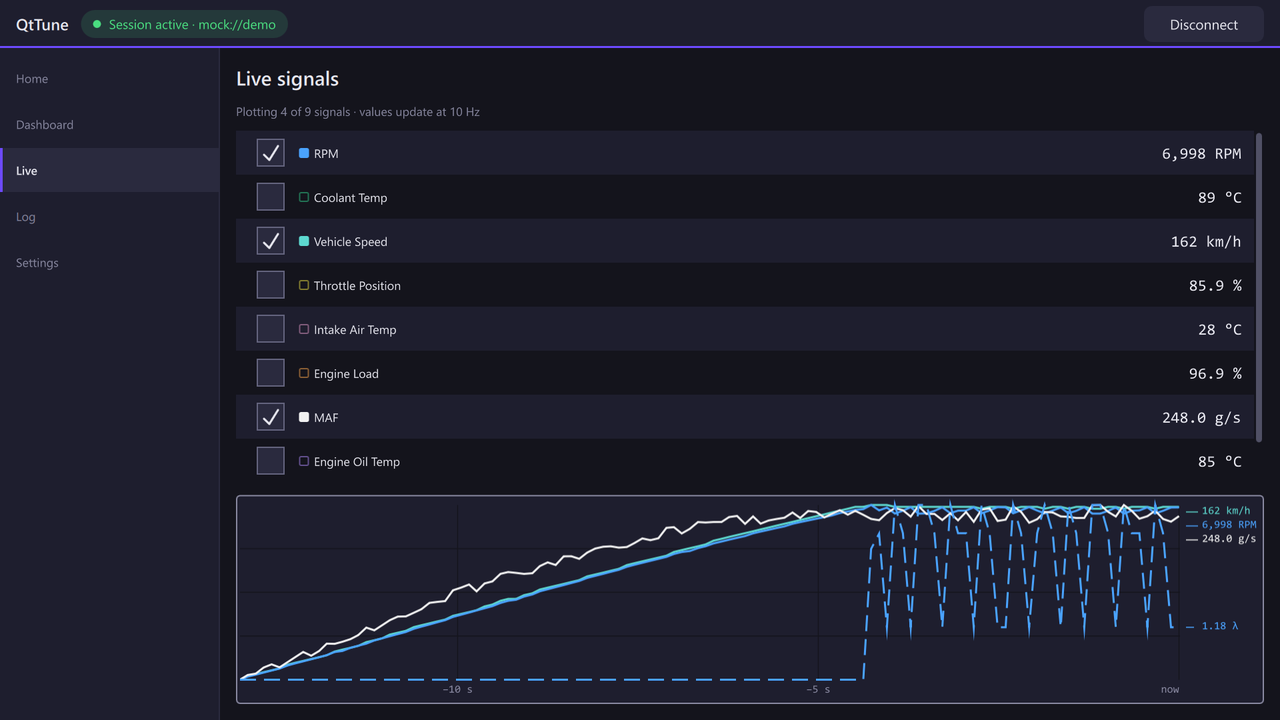
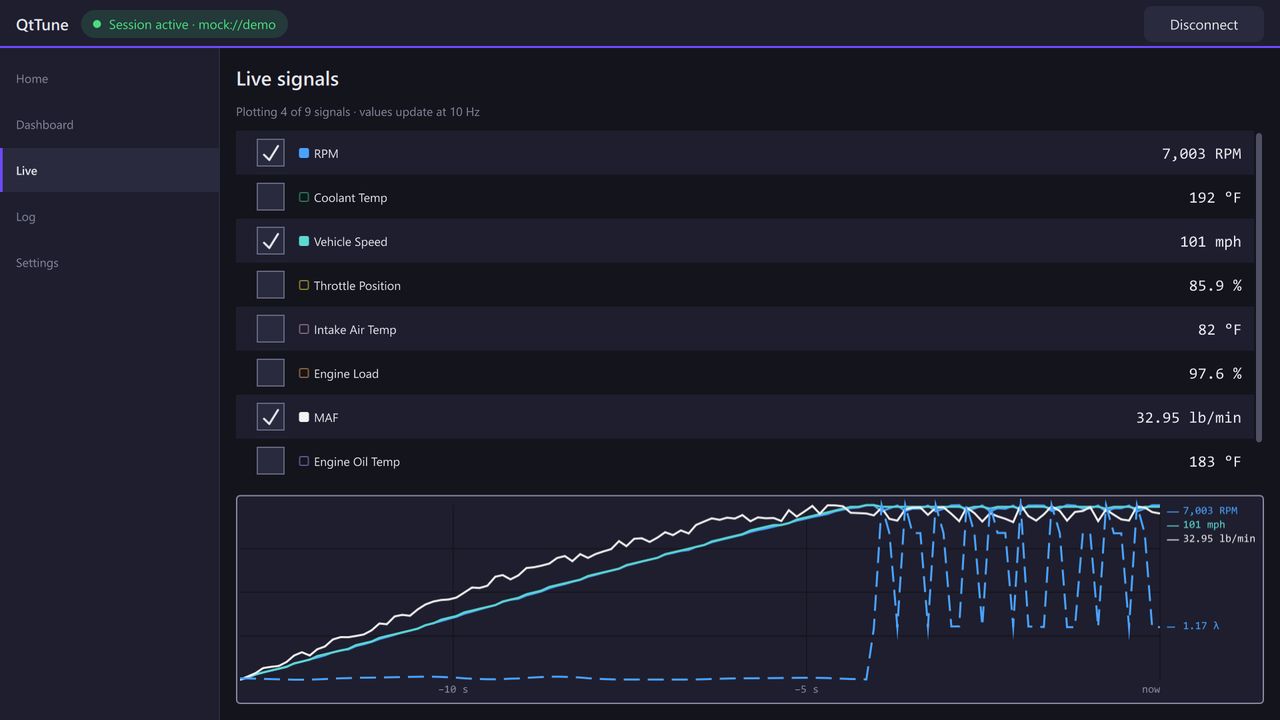
feat(ui): imperial by default, and the README images re-recorded in it
The app starts in imperial until Settings' Units row says otherwise;
a stored choice still wins. Only the display default moves: the bridge
starts metric, which is what core decoded, and recordings keep the
decoded value and unit (ADR-0022's appendix of 2026-10-25).

The Dashboard GIF and the Live and frame-log stills are retaken on the
current drive cycle, in mph, degrees F and lb/min.

diff --git a/app/qml/Main.qml b/app/qml/Main.qml
@@ -66,7 +66,9 @@ ApplicationWindow {
         id: uiSettings
         category: "ui"
         property real zoom: 1.0
-        property int unitSystem: 0
+        // Imperial until changed (ADR-0022's appendix of 2026-10-25); the
+        // bridge and recordings stay in core's decoded, metric units
+        property int unitSystem: 1
     }
     property bool zoomRestored: false
     Component.onCompleted: {

diff --git a/docs/adr/0022-display-units.md b/docs/adr/0022-display-units.md
@@ -109,3 +109,13 @@ corrupt stored value leaves the default.
   the model.
 - `ecuio_display_value_t` is ABI: 32 bytes, pinned by static asserts
   and `test_c_abi.c`, with six reserved bytes.
+
+## Appendix — the default system (2026-10-25)
+
+The app starts in imperial until the Units row is used: `Main.qml`'s
+`Settings` default for `unitSystem` is imperial, and a stored choice
+wins over it. Only the display default moved. The bridge still starts
+in metric, which is what core decoded, so a bridge without the app's
+window (`test_bridge`, and any value the window can't read back) shows
+decoded units, and recordings keep the decoded value and unit as §3
+decided.
